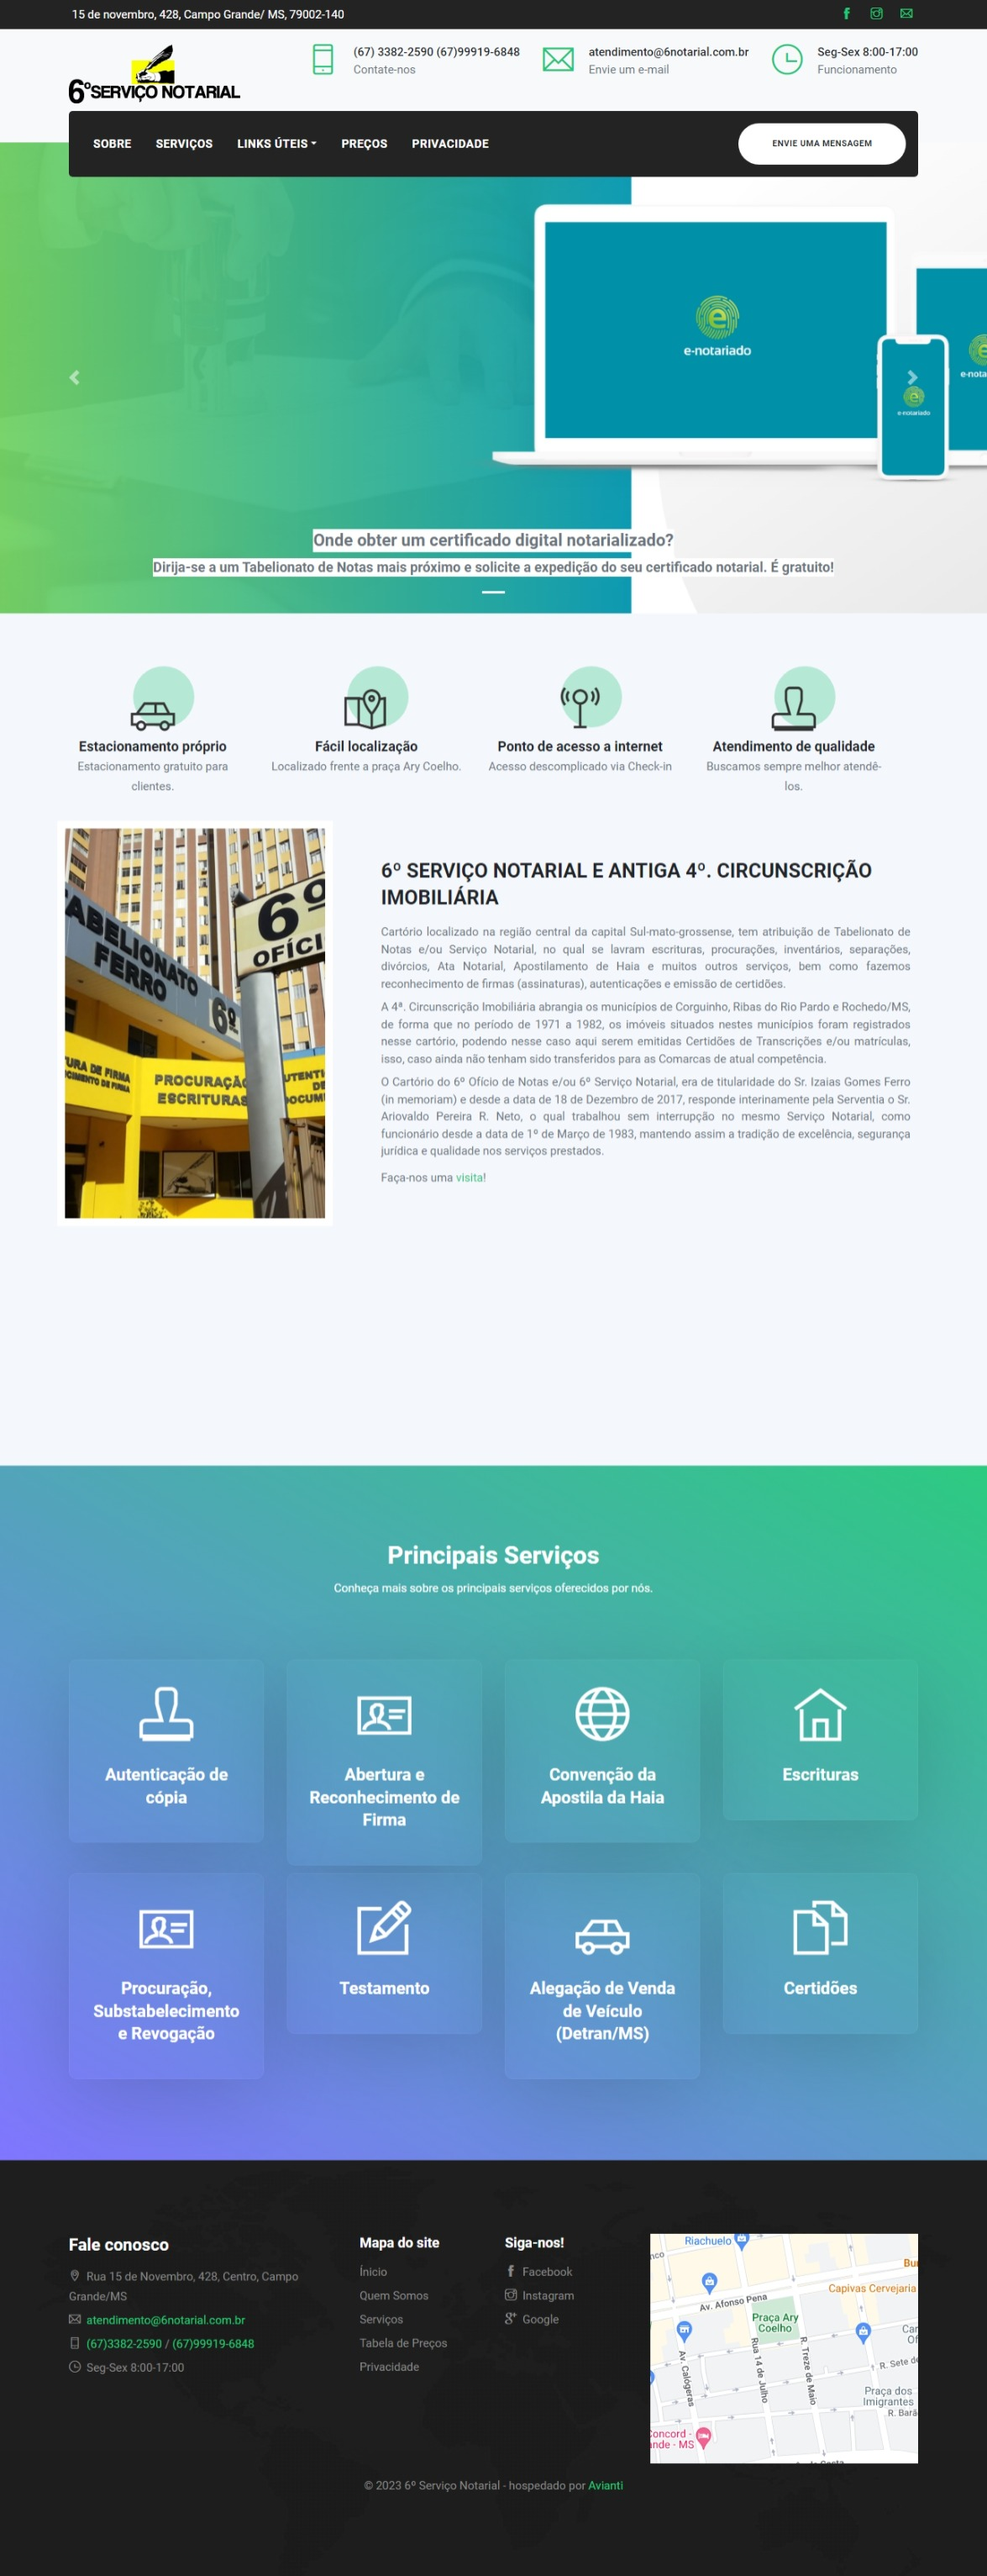
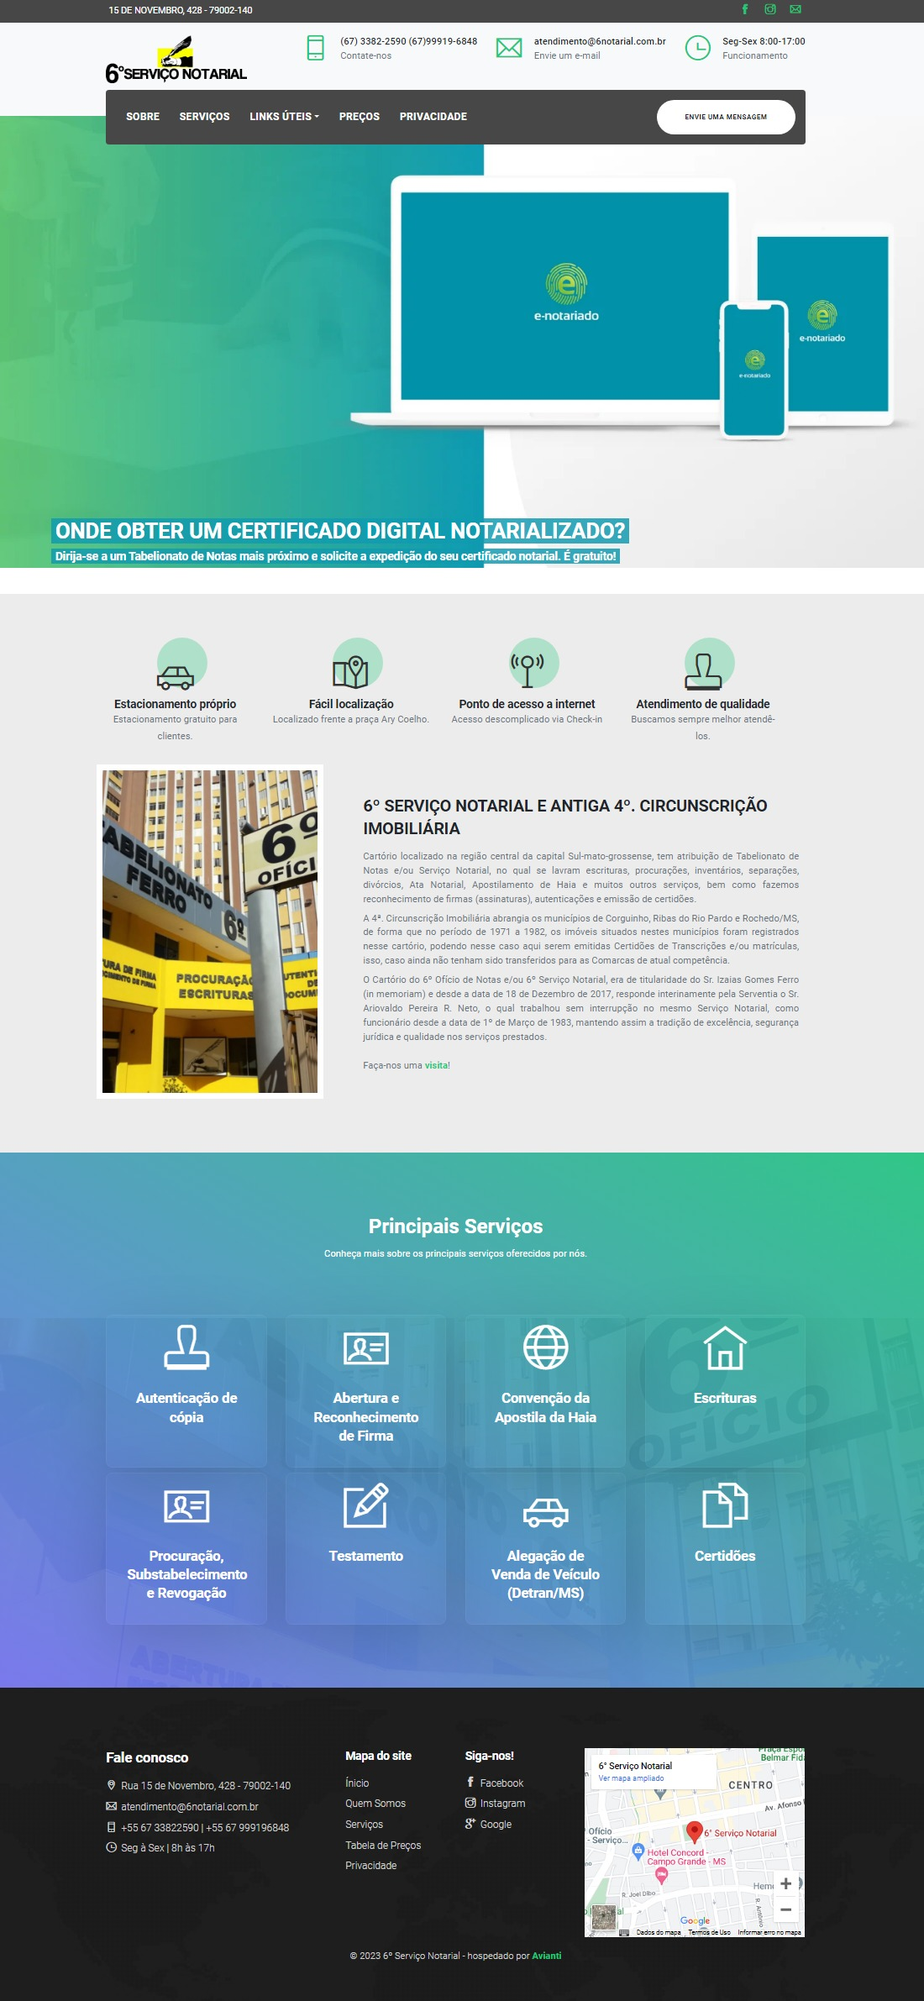
Atualizado Readme

diff --git a/src/constants/servicesData.js b/src/constants/servicesData.js
@@ -48,7 +48,8 @@ const servicesData = {
     apostila: {
         title: "Convenção da Apostila da Haia",
         content: <>{<><p>A palavra Apostila (em português) é de origem francesa, sendo grafada ”<em>Apostille</em>”, que provém do verbo “<em>apostiller</em>“, que significa Anotação. Assim sendo, apesar do significado corrente na Língua Portuguesa que tem o significado de uma publicação, um significado adicional é que uma apostila consiste numa anotação à margem de um documento ou ao final de uma carta, por exemplo. Neste caso, a Apostila é definida como um certificado emitido nos termos da <strong>Convenção da Apostila</strong> que autentica a origem de um <strong>Documento Público</strong>.</p>
-        <p>O Conselho Nacional de Justiça (CNJ) é o responsável por coordenar e regulamentar a aplicação da <a href="https://www.hcch.net/pt/instruments/conventions/full-text/?cid=41" target="_blank" title="Convenção Relativa à Supressão da Exigência da Legalização dos Actos Públicos Estrangeiros" rel="noreferrer">Convenção da Apostila da Haia</a> no Brasil, que entra em vigor em agosto de 2016. O tratado, assinado no segundo semestre de 2015 pelo Brasil, tem o objetivo de agilizar e simplificar a legalização de documentos entre os 112 países signatários, permitindo o reconhecimento mútuo de documentos brasileiros no exterior e de documentos estrangeiros no Brasil.</p><strong>Leia <a href="https://www.planalto.gov.br/ccivil_03/_ato2015-2018/2016/decreto/d8660.htm" title="DECRETO Nº 8.660, DE 29 DE JANEIRO DE 2016" rel="noreferrer">aqui</a> o texto integral.</strong>
+        <p>O Conselho Nacional de Justiça (CNJ) é o responsável por coordenar e regulamentar a aplicação da <a href="https://www.hcch.net/pt/instruments/conventions/full-text/?cid=41" target="_blank" title="Convenção Relativa à Supressão da Exigência da Legalização dos Actos Públicos Estrangeiros" rel="noreferrer">Convenção da Apostila da Haia</a> no Brasil, que entra em vigor em agosto de 2016. O tratado, assinado no segundo semestre de 2015 pelo Brasil, tem o objetivo de agilizar e simplificar a legalização de documentos entre os 112 países signatários, permitindo o reconhecimento mútuo de documentos brasileiros no exterior e de documentos estrangeiros no Brasil.</p>
+        <strong>Leia <a href="https://www.planalto.gov.br/ccivil_03/_ato2015-2018/2016/decreto/d8660.htm" title="DECRETO Nº 8.660, DE 29 DE JANEIRO DE 2016" rel="noreferrer">aqui</a> o texto integral.</strong>
         <p><iframe width="560" height="315" src="https://www.youtube-nocookie.com/embed/XJiCOn9eoNs" title="YouTube video player" frameBorder="0" allow="accelerometer; autoplay; clipboard-write; encrypted-media; gyroscope; picture-in-picture; web-share" allowFullScreen></iframe></p>
         <p>A Convenção aplica-se aos atos públicos lavrados e apresentados em um dos países signatários. São considerados como atos públicos:</p>
         <ul className="li-hifen">
@@ -83,7 +84,12 @@ const servicesData = {
         <p> Atenção: as procurações para fins previdenciários( <abbr title="Instituto Nacional do Seguro Social" className="initialism ">INSS</abbr>) são feitas gratuitamente nos cartórios do estado de São Paulo.</p>
         <h5> Documentos Necessários</h5>
         <p><strong>Pessoa Física:</strong> O interessado em nomear um procurador deverá apresentar seus documentos pessoais originais(<abbr title="Registro Geral" className="initialism">RG</abbr>, <abbr title="Cadastro de Pessoa Física" className="initialism ">CPF</abbr> e certidão de casamento). Os dados pessoais do procurador(nome, < abbr title = "Registro Geral" >RG</abbr>, <abbr title="Cadastro de Pessoa Física" className="initialism">CPF</abbr >, estado civil, profissão e endereço) devem ser informados, sendo recomendável que sejam apresentadas as cópias dos documentos para conferência.</p>
-        <p><strong>Pessoa Jurídica:</strong > O interessado deverá apresentar original ou cópia autenticada do contrato social e de suas alterações, ata de nomeação da diretoria, CNPJ, além do <abbr title="Registro Geral" >RG</abbr> e <abbr title="Cadastro de Pessoa Física" className="initialism">CPF</abbr> originais do representante que irá assinar o documento.Em procurações relativas a bens imóveis é recomendável apresentar a certidão do imóvel.</p><p>Atenção: desde 14 de agosto de 2016, a legalização dos documentos foi substituída pelo Apostilamento, previsto na Convenção de Haia, inicialmente feito pelos cartórios das capitais, segundo procedimento definido pelo Conselho Nacional de Justiça (CNJ).</p><h5> O que é substabelecimento de procuração ? Quais os seus efeitos?</h5><p>Substabelecimento é o instrumento pelo qual o procurador transfere os poderes recebidos para outra pessoa, que irá substituí-lo na prática dos atos em nome do outorgante originário.</p><p> O substabelecimento pode ser total ou parcial, com ou sem reserva de poderes.O substabelecimento segue a mesma forma exigida para a prática do ato.Ou seja, se a lei determinar que o ato é solene e deve ser praticado por instrumento público, o substabelecimento da procuração pública também deverá ser feito sob a forma pública.Os efeitos estão no artigo 667 do <cite>Código Civil.</cite></p><h5>O que é procuração em causa própria?</h5>
+        <p><strong>Pessoa Jurídica:</strong > O interessado deverá apresentar original ou cópia autenticada do contrato social e de suas alterações, ata de nomeação da diretoria, CNPJ, além do <abbr title="Registro Geral" >RG</abbr> e <abbr title="Cadastro de Pessoa Física" className="initialism">CPF</abbr> originais do representante que irá assinar o documento.Em procurações relativas a bens imóveis é recomendável apresentar a certidão do imóvel.</p>
+        <p>Atenção: desde 14 de agosto de 2016, a legalização dos documentos foi substituída pelo Apostilamento, previsto na Convenção de Haia, inicialmente feito pelos cartórios das capitais, segundo procedimento definido pelo Conselho Nacional de Justiça (CNJ).</p>
+        <h5> O que é substabelecimento de procuração ? Quais os seus efeitos?</h5>
+        <p>Substabelecimento é o instrumento pelo qual o procurador transfere os poderes recebidos para outra pessoa, que irá substituí-lo na prática dos atos em nome do outorgante originário.</p>
+        <p> O substabelecimento pode ser total ou parcial, com ou sem reserva de poderes.O substabelecimento segue a mesma forma exigida para a prática do ato.Ou seja, se a lei determinar que o ato é solene e deve ser praticado por instrumento público, o substabelecimento da procuração pública também deverá ser feito sob a forma pública.Os efeitos estão no artigo 667 do <cite>Código Civil.</cite></p>
+        <h5>O que é procuração em causa própria?</h5>
         <p>É a procuração que tem uma cláusula especial que permite ao procurador adquirir o imóvel para si próprio. Para que ela tenha plena validade é importante estabelecer o preço de venda ou fazer constar que o valor já foi recebido anteriormente, bem como o recolhido tributário correspondente.</p></>}</>
     },
     testamento: {

diff --git a/src/_assents/css/responsive.css b/src/_assents/css/responsive.css
@@ -8,6 +8,18 @@
         height: 70vh;
     }
 
+    .carousel-caption {
+        margin-bottom: 5rem;
+    }
+
+    .carousel-caption p:first-of-type {
+        font-size: 2.5rem;
+    }
+
+    .carousel-caption p:nth-child(2) {
+        font-size: 1.5rem;
+    }
+
     .navbar .dropdown-menu {
         transform: translateY(.5rem);
         opacity: 0

diff --git a/README.md b/README.md
@@ -1,61 +1,28 @@
-### Preview
+<h1>🚀 Projeto</h1> 
+<dd>Site institucional de página única.</dd>
+<br>
+
 <img src="preview.jpg" width="400px" />
 
-### `npm start`
+<br><br>
 
-Runs the app in the development mode.\
-Open [http://localhost:3000](http://localhost:3000) to view it in the browser.
+<h1>🛠 Tecnologias utilizadas</h1> 
+<ul>
+    <li>Html</li>
+    <li>CSS</li>
+    <li>Javascript</li>
+    <li>React</li>
+    <li>Bootstrap</li>
+</ul>
 
-The page will reload if you make edits.\
-You will also see any lint errors in the console.
+<br><br>
+
+<h1>📃 Como utilizar</h1>
+<p>Para executar o projeto localmente utilize o comando <strong>npm start</strong></p>
+<p>Abrir <em>[http://localhost:3000](http://localhost:3000)</em> para visualizar no navegador.</p>
+<p>A página irá atualizar a cada alteração, você poderá visualizar qualquer erro no console F12.</p>
+
+<br><br>
 
 
-### `npm run build`
-
-Builds the app for production to the `build` folder.\
-It correctly bundles React in production mode and optimizes the build for the best performance.
-
-The build is minified and the filenames include the hashes.\
-Your app is ready to be deployed!
-
-See the section about [deployment](https://facebook.github.io/create-react-app/docs/deployment) for more information.
-
-### `npm run eject`
-
-**Note: this is a one-way operation. Once you `eject`, you can’t go back!**
-
-If you aren’t satisfied with the build tool and configuration choices, you can `eject` at any time. This command will remove the single build dependency from your project.
-
-Instead, it will copy all the configuration files and the transitive dependencies (webpack, Babel, ESLint, etc) right into your project so you have full control over them. All of the commands except `eject` will still work, but they will point to the copied scripts so you can tweak them. At this point you’re on your own.
-
-You don’t have to ever use `eject`. The curated feature set is suitable for small and middle deployments, and you shouldn’t feel obligated to use this feature. However we understand that this tool wouldn’t be useful if you couldn’t customize it when you are ready for it.
-
-## Learn More
-
-You can learn more in the [Create React App documentation](https://facebook.github.io/create-react-app/docs/getting-started).
-
-To learn React, check out the [React documentation](https://reactjs.org/).
-
-### Code Splitting
-
-This section has moved here: [https://facebook.github.io/create-react-app/docs/code-splitting](https://facebook.github.io/create-react-app/docs/code-splitting)
-
-### Analyzing the Bundle Size
-
-This section has moved here: [https://facebook.github.io/create-react-app/docs/analyzing-the-bundle-size](https://facebook.github.io/create-react-app/docs/analyzing-the-bundle-size)
-
-### Making a Progressive Web App
-
-This section has moved here: [https://facebook.github.io/create-react-app/docs/making-a-progressive-web-app](https://facebook.github.io/create-react-app/docs/making-a-progressive-web-app)
-
-### Advanced Configuration
-
-This section has moved here: [https://facebook.github.io/create-react-app/docs/advanced-configuration](https://facebook.github.io/create-react-app/docs/advanced-configuration)
-
-### Deployment
-
-This section has moved here: [https://facebook.github.io/create-react-app/docs/deployment](https://facebook.github.io/create-react-app/docs/deployment)
-
-### `npm run build` fails to minify
-
-This section has moved here: [https://facebook.github.io/create-react-app/docs/troubleshooting#npm-run-build-fails-to-minify](https://facebook.github.io/create-react-app/docs/troubleshooting#npm-run-build-fails-to-minify)
+<h3>Feito com ❤ por <a url="https://www.linkedin.com/in/felipeteixeirams/" target="_blank">Felipe Teixeira</a>.</h3>
